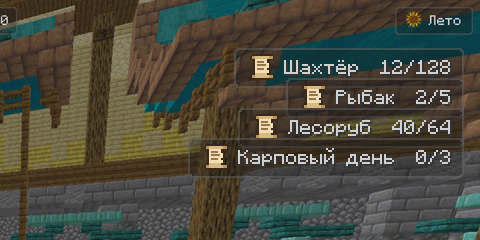
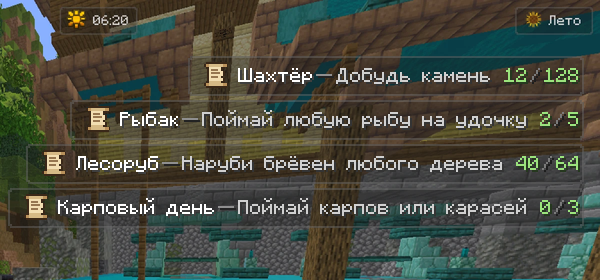
HUD квестов: описание задания в плашке, зазор между плашками
Claude-Session: https://claude.ai/code/session_015YcF29gpWmsD2yM9RNNMWT

diff --git a/ZenQuests/src/main/java/ink/hoka/zenquests/hook/PapiHook.java b/ZenQuests/src/main/java/ink/hoka/zenquests/hook/PapiHook.java
@@ -16,7 +16,7 @@ import java.time.Duration;
  *   %zenquests_premium%        — true / false
  *   %zenquests_premium_left%   — сколько осталось («3 д 4 ч», «навсегда») или пусто
  *   %zenquests_hud_<n>_active% — 1, если есть n-й (1..4) невыполненный ежедневный квест, иначе 0 (для BetterHud)
- *   %zenquests_hud_<n>_name% / _progress / _amount / _percent / _left — его название без цветов и прогресс
+ *   %zenquests_hud_<n>_name% / _desc / _progress / _amount / _percent / _left — название, первая строка описания, прогресс
  *   %zenquests_hud_count%      — сколько ежедневных ещё не выполнено
  */
 public final class PapiHook extends PlaceholderExpansion {
@@ -78,6 +78,7 @@ public final class PapiHook extends PlaceholderExpansion {
         return switch (what) {
             case "active" -> "1";
             case "name" -> Text.strip(e.quest().name()).trim();
+            case "desc" -> e.quest().description().isEmpty() ? "" : Text.strip(e.quest().description().get(0)).trim();
             case "progress" -> String.valueOf(prog);
             case "amount" -> String.valueOf(amount);
             case "left" -> String.valueOf(amount - prog);

diff --git a/ZenQuests/betterhud/README.md b/ZenQuests/betterhud/README.md
@@ -7,4 +7,4 @@
 - `texts/default_font.append.yml` — дописать в `texts/default_font.yml` → `default_font.images`;
 - `assets/icons/quest.png` — иконка (16x16, из иконки «Ежедневные» меню квестов);
 - в `config.yml` BetterHud добавить `quests` в `default-hud`; затем `/betterhud reload` (или рестарт).
-Плашки: align right, x -8, y 30/45/60/75 — под плашкой времени года (y 11). Превью — `preview_hud.png`.
+Плашки: align right, x -8, y 34/56/78/100 (фон 20 px, зазор 2 px) — под плашкой времени года (y 11). Превью — `preview_hud.png`.
